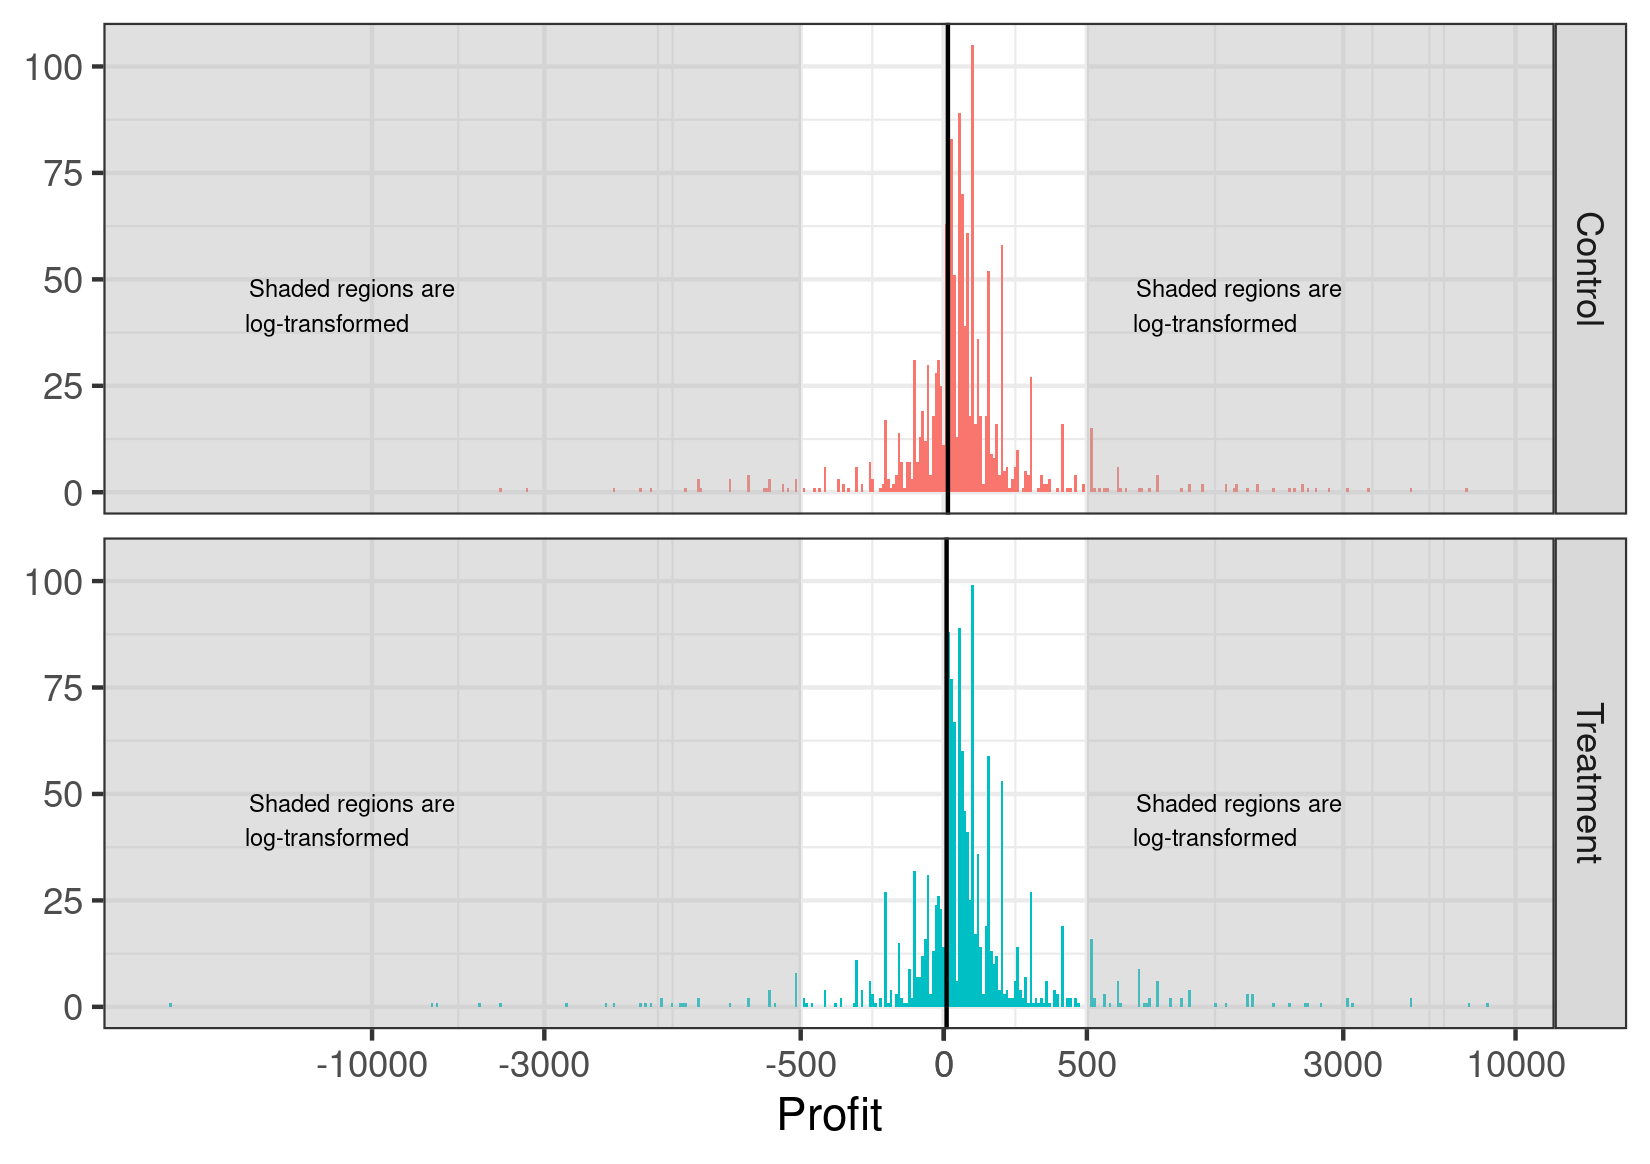
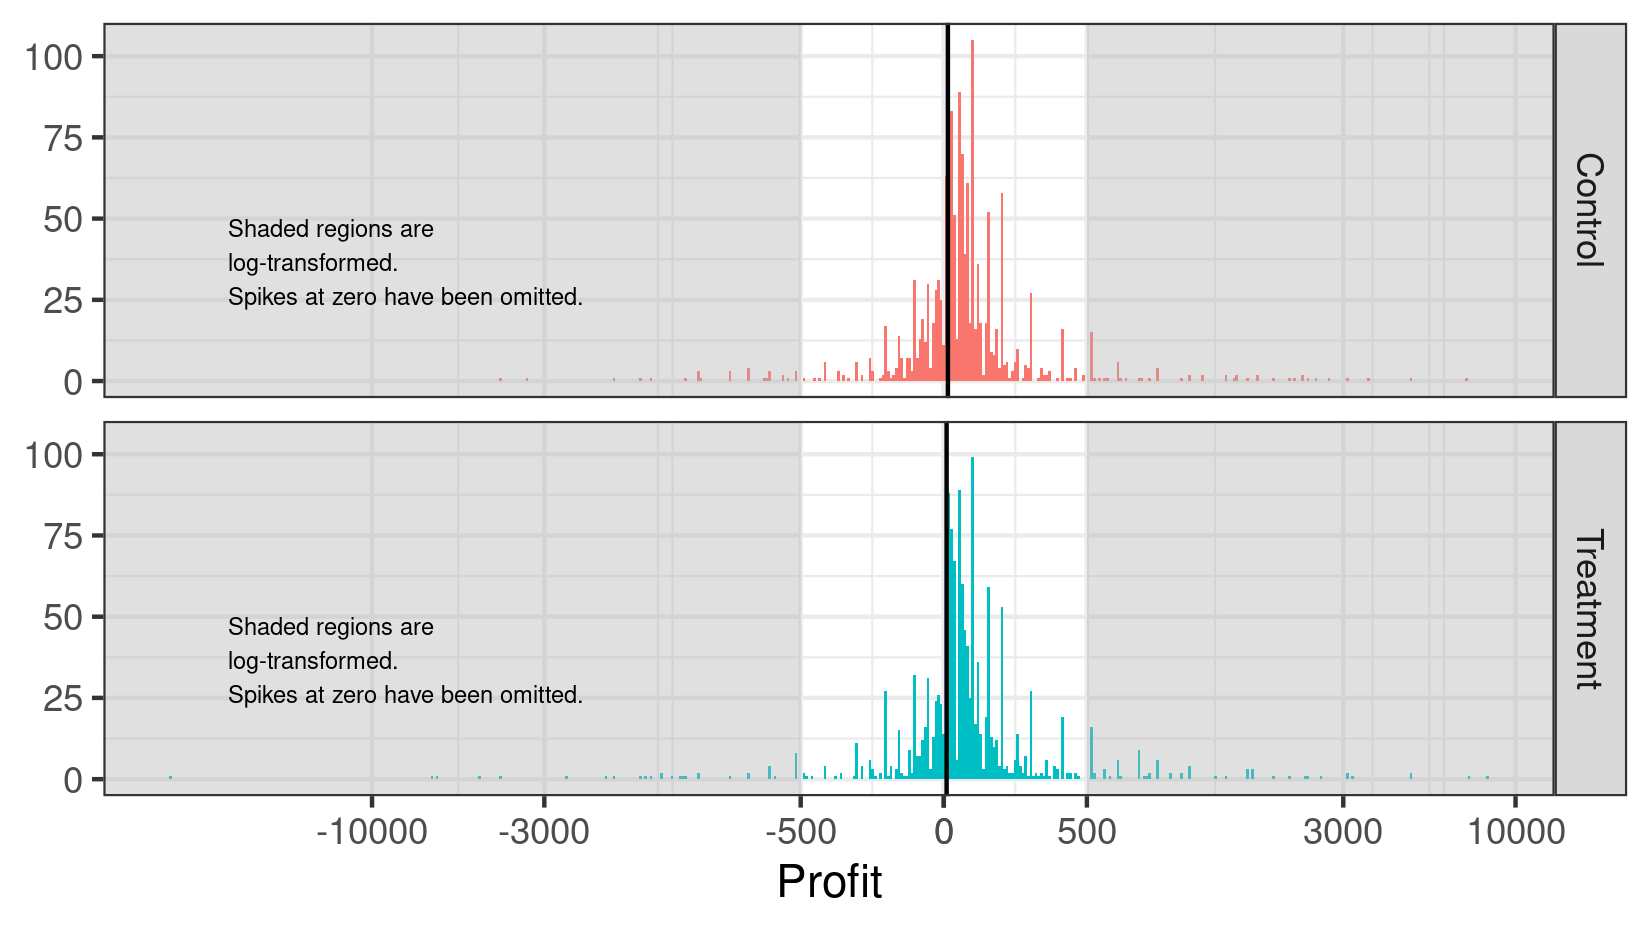
need to fix definemacro

diff --git a/JSM_AMIP_2026/figures_knitr.tex b/JSM_AMIP_2026/figures_knitr.tex
@@ -11,8 +11,15 @@
 
 
 \newcommand{\DefineMacros}{
+\newcommand{\SimNumObs}{5,000}
+\newcommand{\SimTrueTheta}{0.5}
+\newcommand{\SimAccNumObs}{5,000}
+\newcommand{\SimAccSigx}{2}
+\newcommand{\SimAccSigeps}{1}
+\newcommand{\SimAccPercentMax}{10}
+\newcommand{\MxNoise}{757.8}
+\newcommand{\MxBetahat}{-4.55}
 \begin{kframe}
-
 
 {\ttfamily\noindent\bfseries\color{errorcolor}{\#\# Error in `prettyNum()`:\\\#\# ! invalid value 0 for 'digits' argument}}\end{kframe}
 }
@@ -172,7 +179,7 @@
 \begin{knitrout}
 \definecolor{shadecolor}{rgb}{0.969, 0.969, 0.969}\color{fgcolor}
 
-{\centering \includegraphics[width=0.98\linewidth,height=0.692\linewidth]{figure/mx-hist-1} 
+{\centering \includegraphics[width=0.98\linewidth,height=0.553\linewidth]{figure/mx-hist-1} 
 
 }
 

diff --git a/JSM_AMIP_2026/robustness.tex b/JSM_AMIP_2026/robustness.tex
@@ -6,4 +6,10 @@
 
 \begin{frame}{Distributional robustness}
 \MxProfitHistogram{}
+
+We are trying to estimate the difference in means in the MX profit data.
+
+Why do we think we can do so with such a high-signal to noise ratio?
+
+Only because $N = $\MxNobs is very large!  But this does not tell us about other distributions.
 \end{frame}
